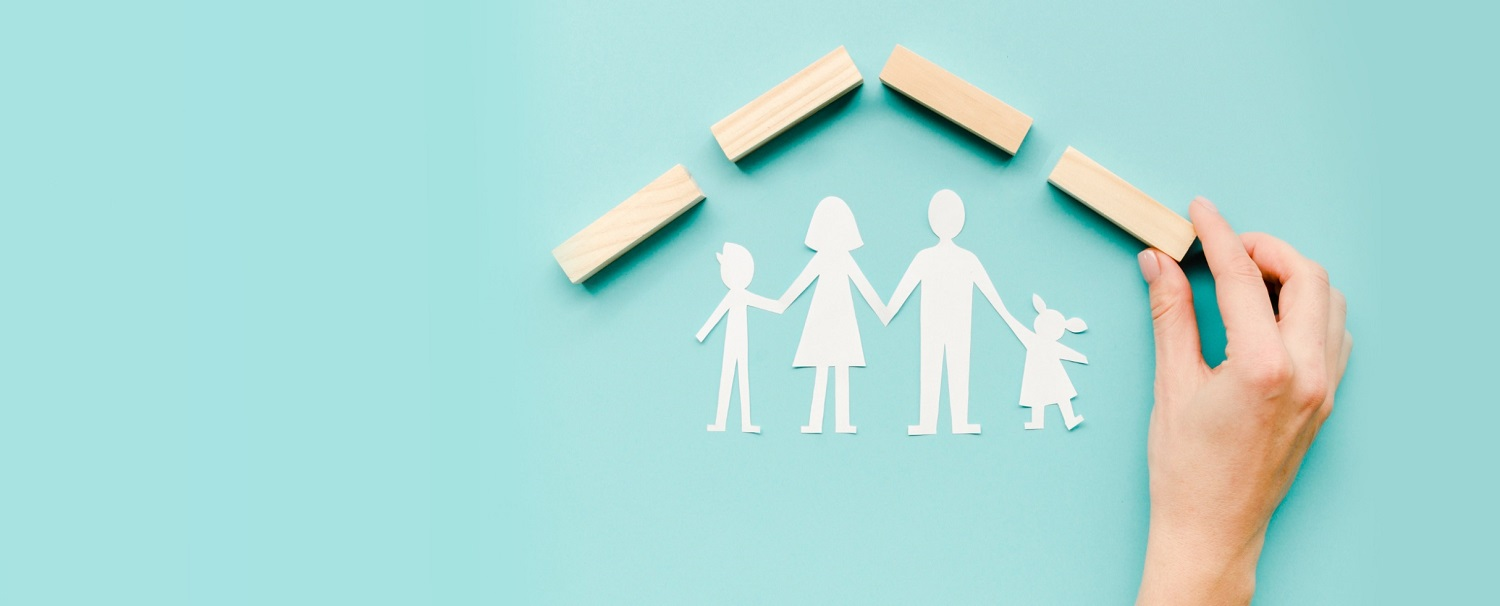
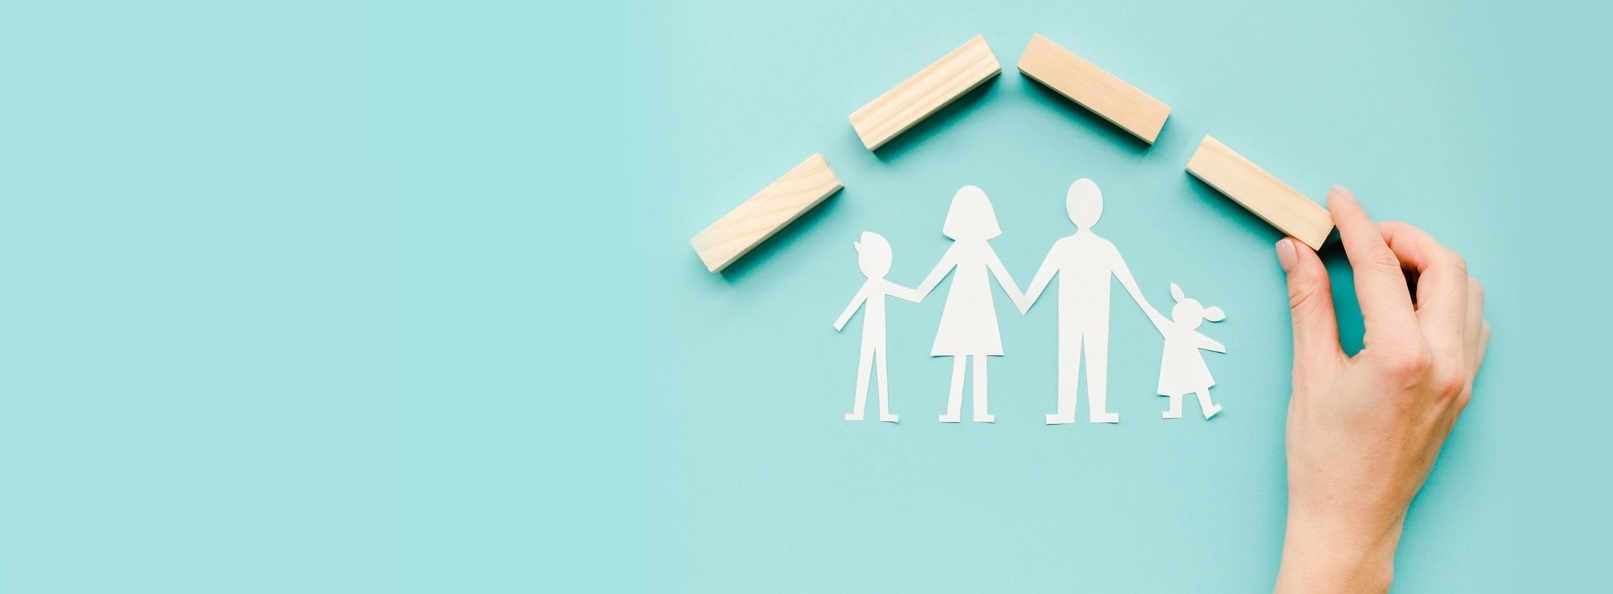
full img for FAQ People mobile devices

Changed region(s): [[0.368, 0.0606, 0.9507, 1.0]]

diff --git a/frontend/pages/AboutPeople.vue b/frontend/pages/AboutPeople.vue
@@ -1,30 +1,33 @@
 <template>
 <div class="xl:max-w-screen-xl mx-auto">
     <div class="flex justify-center items-center">
-        <div class="bg-center w-full items-center md:py-40 py-20 bg-[url('@/assets/doctor_today.jpg')] bg-no-repeat">
-            <div class="flex justify-center md:text-[60px] text-3xl text-sky-700 font-extrabold rounded-3xl bg-opacity-80 md:py-20 py-10">
+        <div class="bg-center w-full items-center md:py-40 py-20 bg-[url('@/assets/doctor_today.jpg')] bg-no-repeat bg-cover ">
+            <div class="opacity-0 sm:opacity-100 flex justify-center md:text-[60px] text-3xl text-sky-700 font-extrabold rounded-3xl bg-opacity-80 md:py-20 py-10">
                     Meet Our Team             
             </div>
         </div>
     </div>
+    <div class="sm:hidden pt-7 flex justify-center text-3xl text-sky-700 font-extrabold">
+                    Meet Our Team             
+    </div>
 
-    <div class="bg-gray-300 md:py-10 px-10 pb-10 pt-3">
+    <div class="md:py-10 px-10 pb-10 md:pt-3 flex justify-center">
         <ul class="grid md:grid-cols-12 md:gap-10 content-center">
-            <li class="md:py-2 py-10 px-10 pb-0 md:px-0 max-w-md md:max-w-none h-auto
+            <li class="md:py-2 py-10 px-2 sm:px-10 pb-0 md:px-0 max-w-md md:max-w-none h-auto
                                md:col-span-6 lg:col-span-4" v-for="(item, index) in peopleList" :key="item.id">
 
-                <div class="border-2 border-sky-700 rounded-xl">
+                <div class="w-7/8 md:w-[300px] lg:w-[290px] xl:w-[340px] border-2 border-sky-700 rounded-xl">
                     <button class="flex flex-wrap" @click="showDescription(item.staff_id)">
                         <div class="w-full py-3">
-                            <div class="h-full shadow-md w-full flex items-center justify-center overflow-hidden">
-                                <img class="pb-3 drop-shadow-xl w-[200px] h-[280px] object-none" v-bind:src='item.image'
+                            <div class="h-full py-2 shadow-md w-full flex items-center justify-center overflow-hidden">
+                                <img style="object-position: 55% 20%;" class="pb-3 drop-shadow-xl w-[210px] h-[290px] object-none" src='@/assets/people/0.png'
                                     :alt="item.name" />
                             </div>
                         </div>
 
                         <div class="px-8 w-full content-center">
                             <div class="w-5/6 float-left text-left">
-                                <div class="py-1 text-base font-bold">{{ item.name }}</div>
+                                <div class="py-1 text-sm lg:text-base font-bold mt-0">{{ item.name }}</div>
                             </div>
 
                             <div class="h-full items-center float-right">
@@ -40,10 +43,10 @@
                             </div>
                         </div>
 
-                        <div class="h-[110px] pb-3 px-8 w-full text-left">
-                            <p class="md:text-lg text-base font-bold mt-0 " v-if="item.is_independent">(Independent Service Provider)</p>
+                        <div class="md:h-[80px] lg:h-[100px] xl:h-[75px] pb-3 px-8 w-full text-left">
+                            <p class="text-sm lg:text-base font-bold mt-0" v-if="item.is_independent">(Independent Service Provider)</p>
                             <p class="pt-2 pb-1 text-xs">{{ item.title }}</p>
-                            <p class="italic py-2 text-xs">{{ item.profile }}</p>
+                            <p class="italic text-xs">{{ item.profile }}</p>
                         </div>
                     </button>
 
@@ -59,9 +62,9 @@
 </template>
 
 <script>
-
 import DataPeople from '../dataRoutes/DataPeople'
 
+//<img class="pb-3 drop-shadow-xl w-[200px] h-[280px] object-none" v-bind:src='item.image' :alt="item.name" />
 export default {
     data() {
         return {

diff --git a/frontend/components/Header.vue b/frontend/components/Header.vue
@@ -4,19 +4,18 @@
 
     <body class="bg-gray-100 xl:max-w-screen-xl mx-auto container">
         <div class="container mx-auto bg-hero bg-[length:1920px_260px] border-b-2 drop-shadow-md mb-6">
-            <div class="flex flex-col sm:flex-row ">
-               <div class = "self-start  w-2/3 mx-[0px] md:mx-[10px]">
+            <div class="flex flex-col sm:flex-row">
+                <div class = "self-start  w-2/3 mx-[0px] md:mx-[10px]">
                     <NuxtLink :to="'/'">
                         <img class="md:h-[150px] md:w-[500px]  h-[100px] mx-5 lg:mx-[140px] mt-[20px]" src="../assets/logo.png" alt="" style="object-fit: contain;" />
                     </NuxtLink>
                 </div>
 
-                <div
-                    class="self-start flex flex-row sm:flex-col relative right-0 bg-transparant text-[10px] sm:text-sm text-sky-700 md:mx-20 mx-[40px] break-all md:break-normal md:mt-10 mt-0">
+                <div class="self-start flex flex-row sm:flex-col relative right-0 bg-transparant text-[10px] text-xs md:text-sm text-sky-700 md:mx-20 mx-[40px] break-all md:break-normal md:mt-10 mt-0">
                     <div class="pb-2 sm:p-1 hover:text-amber-500">
                         <a href="mailto:enquiries@doctortoday.co.uk" class="flex items-center">
                             <span class="mr-2">
-                                <svg xmlns="http://www.w3.org/2000/svg" viewBox="0 0 22 22" width="22" height="22">
+                                <svg xmlns="http://www.w3.org/2000/svg" viewBox="0 0 22 22" class="w-[16px] h-[16px] md:w-[20px] md:h-[20px]">
                                     <path fill="none" d="M0 0h24v24H0z" />
                                     <path
                                         d="M22 20.007a1 1 0 0 1-.992.993H2.992A.993.993 0 0 1 2 20.007V19h18V7.3l-8 7.2-10-9V4a1 1 0 0 1 1-1h18a1 1 0 0 1 1 1v16.007zM4.434 5L12 11.81 19.566 5H4.434zM0 15h8v2H0v-2zm0-5h5v2H0v-2z"
@@ -30,8 +29,7 @@
 
                     <div class="pl-2 sm:p-1 hover:text-amber-500 ">
                         <a href="tel:02074331444" class="flex items-center">
-                            <span class="mr-2"><svg xmlns="http://www.w3.org/2000/svg" viewBox="0 0 22 22" width="22"
-                                    height="22">
+                            <span class="mr-2"><svg xmlns="http://www.w3.org/2000/svg" viewBox="0 0 22 22" class="w-[16px] h-[16px] md:w-[20px] md:h-[20px]">
                                     <path fill="none" d="M0 0h24v24H0z" />
                                     <path
                                         d="M9.366 10.682a10.556 10.556 0 0 0 3.952 3.952l.884-1.238a1 1 0 0 1 1.294-.296 11.422 11.422 0 0 0 4.583 1.364 1 1 0 0 1 .921.997v4.462a1 1 0 0 1-.898.995c-.53.055-1.064.082-1.602.082C9.94 21 3 14.06 3 5.5c0-.538.027-1.072.082-1.602A1 1 0 0 1 4.077 3h4.462a1 1 0 0 1 .997.921A11.422 11.422 0 0 0 10.9 8.504a1 1 0 0 1-.296 1.294l-1.238.884zm-2.522-.657l1.9-1.357A13.41 13.41 0 0 1 7.647 5H5.01c-.006.166-.009.333-.009.5C5 12.956 11.044 19 18.5 19c.167 0 .334-.003.5-.01v-2.637a13.41 13.41 0 0 1-3.668-1.097l-1.357 1.9a12.442 12.442 0 0 1-1.588-.75l-.058-.033a12.556 12.556 0 0 1-4.702-4.702l-.033-.058a12.442 12.442 0 0 1-.75-1.588z"

diff --git a/frontend/pages/AboutFaq.vue b/frontend/pages/AboutFaq.vue
@@ -1,10 +1,9 @@
 <template>
 <div class = "xl:max-w-screen-xl mx-auto">
-    <div class="container mx-auto px-5 md:pl-20 md:bg-top md:pt-40 xl:max-w-screen-xl mx-auto bg-[url('@/assets/faq.jpg')] bg-no-repeat">
-        <div class="grid justify-items-stretch pt-20 md:pt-0 md:pb-20">
-            <div class="bg-center text-2xl md:text-4xl font-bold text-sky-700
-                            leading-relaxed md:leading-relaxed
-                            flex items-center md:justify-self-left">
+    <div class="container mx-auto h-[155px] md:h-auto 2xl:h-[600px] px-5 md:pl-20 md:bg-top md:pt-40 xl:max-w-screen-xl bg-[url('@/assets/faq.jpg')] bg-no-repeat bg-cover">
+        <div class="justify-left pt-[50px] md:pt-0 md:pb-20">
+            <div class="text-lg md:text-4xl font-bold text-sky-700
+                        leading-relaxed md:leading-relaxed md:justify-self-left">
                 Frequently Asked<br>Questions
             </div>
         </div>
